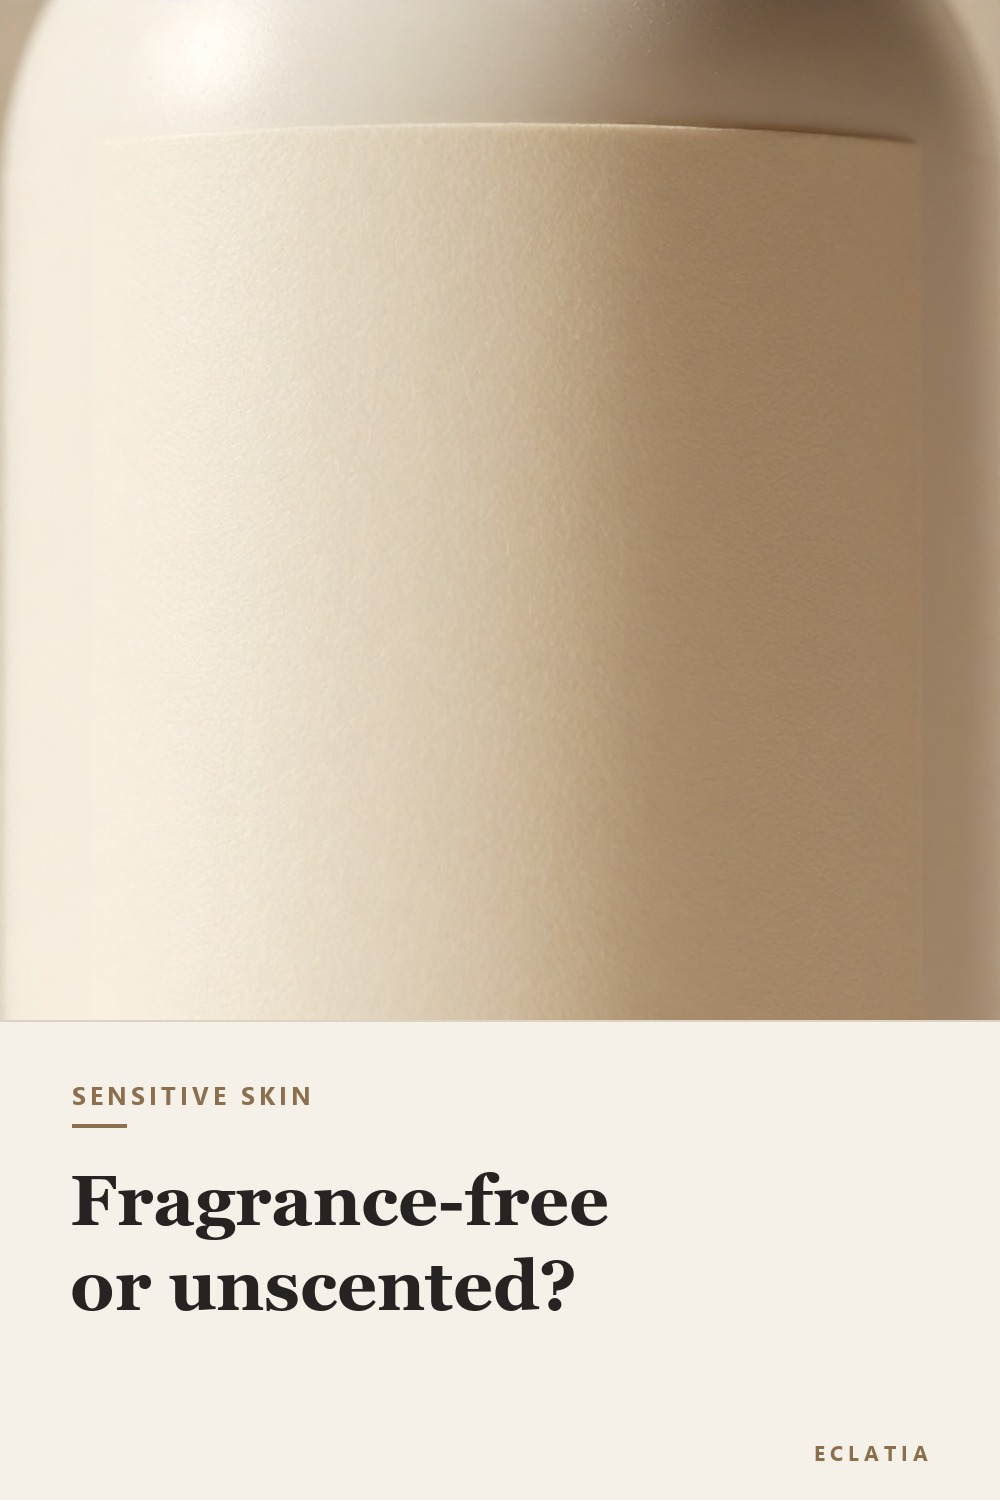
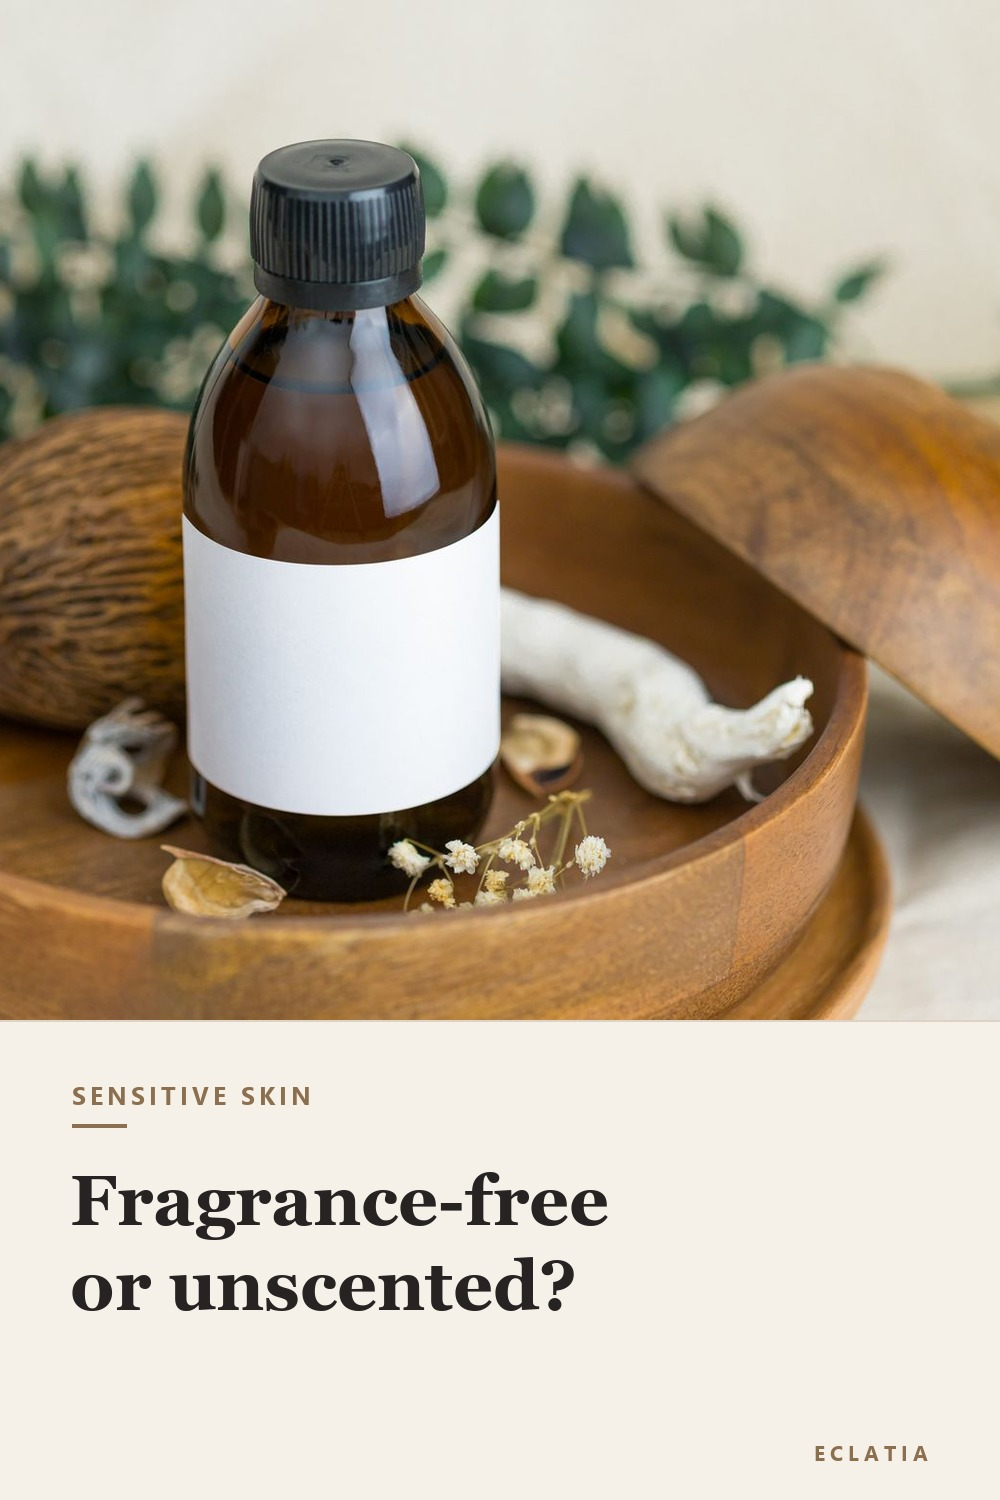
P06: visuel v2 (flacon a etiquette vierge) au lieu du flacon abstrait

diff --git a/scripts/make_pins_p06.py b/scripts/make_pins_p06.py
@@ -1,0 +1,71 @@
+"""Compose le pin P06 (v2) : flacon avec etiquette vierge au lieu du flacon abstrait.
+
+Le sujet du pin est « ce que dit l'etiquette ». L'ancien visuel montrait un
+flacon blanc en gros plan, sans etiquette du tout : il ne parlait pas du sujet.
+Ici on voit un flacon ambre avec une etiquette blanche vierge, pose dans une
+coupelle en bois avec de l'eucalyptus — le lecteur comprend qu'il s'agit de lire
+une etiquette. Etiquette vierge = aucune marque visible.
+
+Entree  : visuels/body-oil/base-P06b.jpg  (Pexels 11441227, 1600 x 1057)
+Sortie  : visuels/body-oil/pin-P06.jpg + pin-P06.png (1000 x 1500)
+"""
+import os
+
+from PIL import Image, ImageDraw, ImageFont
+
+from make_pins_body_oil import ACCENT, CREAM, H, INK, LINE, SEGOE_B, W, fit_font, spaced
+
+BASE = os.path.join("docs", "contenus-a-valider", "visuels", "body-oil")
+PANEL_H = 480
+KICKER = "SENSITIVE SKIN"
+LINES = ["Fragrance-free", "or unscented?"]
+
+
+def crop_fill(img, w, h, cx=0.5, cy=0.5):
+    """Recadre au ratio demande, en gardant le point (cx, cy) au centre."""
+    r = max(w / img.width, h / img.height)
+    im = img.resize((round(img.width * r), round(img.height * r)), Image.LANCZOS)
+    left = round((im.width - w) * cx)
+    top = round((im.height - h) * cy)
+    left = max(0, min(left, im.width - w))
+    top = max(0, min(top, im.height - h))
+    return im.crop((left, top, left + w, top + h))
+
+
+def build():
+    photo = crop_fill(
+        Image.open(os.path.join(BASE, "base-P06b.jpg")).convert("RGB"), W, H - PANEL_H, 0.5, 0.5
+    )
+    canvas = Image.new("RGB", (W, H), CREAM)
+    canvas.paste(photo, (0, 0))
+    d = ImageDraw.Draw(canvas)
+
+    d.rectangle([0, H - PANEL_H, W, H], fill=CREAM)
+    d.rectangle([0, H - PANEL_H, W, H - PANEL_H + 1], fill=LINE)
+
+    x = 72
+    spaced(d, (x, H - PANEL_H + 58), KICKER, ImageFont.truetype(SEGOE_B, 25), ACCENT, 4)
+    d.rectangle([x, H - PANEL_H + 104, x + 54, H - PANEL_H + 107], fill=ACCENT)
+
+    f, size = fit_font(d, LINES, W - 2 * x)
+    lh = round(size * 1.22)
+    y = H - PANEL_H + 140
+    for line in LINES:
+        d.text((x - 2, y), line, font=f, fill=INK)
+        y += lh
+
+    fs = ImageFont.truetype(SEGOE_B, 21)
+    label = "ECLATIA"
+    tw = sum(d.textlength(c, font=fs) + 5 for c in label) - 5
+    spaced(d, (W - x - tw, H - 62), label, fs, ACCENT, 5)
+
+    jpg = os.path.join(BASE, "pin-P06.jpg")
+    canvas.save(jpg, quality=92, optimize=True)
+    png = os.path.join(BASE, "pin-P06.png")
+    canvas.save(png, optimize=True)
+    print("ok", jpg, canvas.size, os.path.getsize(jpg) // 1024, "Ko")
+    print("ok", png, os.path.getsize(png) // 1024, "Ko")
+
+
+if __name__ == "__main__":
+    build()

diff --git a/docs/contenus-a-valider/pins/P06-a-publier.md b/docs/contenus-a-valider/pins/P06-a-publier.md
@@ -15,7 +15,17 @@
 | **Lien** | `https://guide-beaute.pages.dev/guides/fragrance-free-body-oil-sensitive-skin/?utm_source=Pinterest&utm_medium=organic&utm_campaign=P06` |
 | **Tableau** | `Body Care & Dry Skin` |
 | **Tagged topics** | Sensitive Skin · Skincare · Body Care |
-| **Alt** | `Close-up of a plain white unlabeled bottle, with the caption "Fragrance-free or unscented?".` |
+| **Alt** | `An amber bottle with a blank white label standing in a wooden bowl among dried botanicals.` |
+
+---
+
+## Le visuel (v2)
+
+L'ancienne image montrait un flacon blanc en très gros plan, **sans étiquette** : elle ne parlait pas du sujet (« ce que dit l'étiquette »). La nouvelle montre un flacon ambre avec une **étiquette blanche vierge**, dans une coupelle en bois avec des botaniques séchées — l'idée de « lire une étiquette » est immédiate, et les plantes évoquent la question du parfum.
+
+- Photo : Pexels 11441227 · étiquette **vierge**, aucune marque visible
+- Texte inchangé : `SENSITIVE SKIN` / « Fragrance-free or unscented? » / signature ECLATIA
+- Script : `scripts/make_pins_p06.py` (source `base-P06b.jpg`)
 
 ---
 
